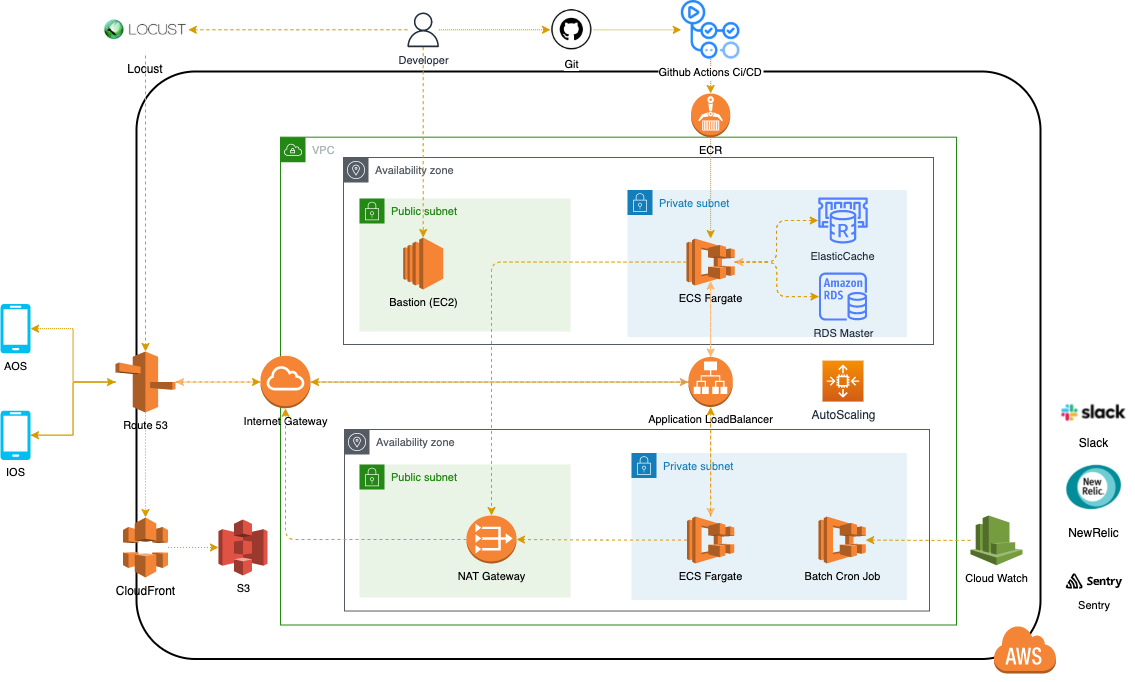
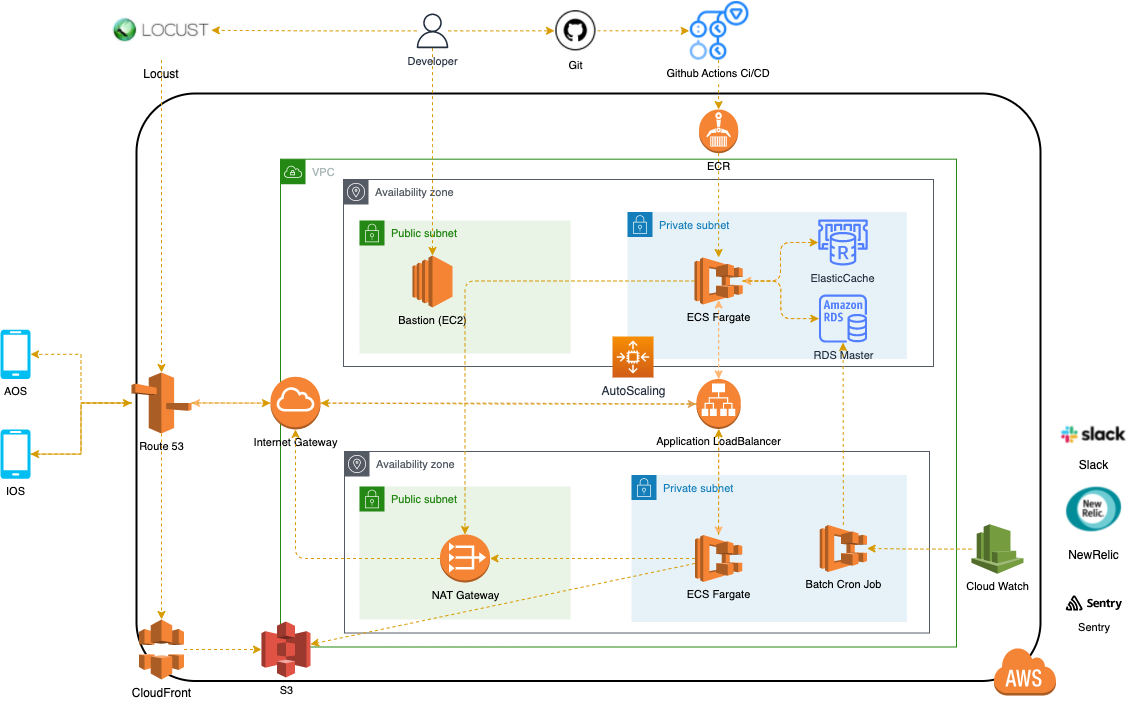
UPDATE README.md

diff --git a/README.md b/README.md
@@ -32,7 +32,7 @@
 - Junit5, AssertJ, Mockito
 
 ### 인프라 (Production)
-![img.png](images/3dollars-architecture-20211126.png)
+![img.png](images/3dollars-architecture-20211211.png)
 
 - ECS Fargate
 - RDS (MariaDB), flyway
